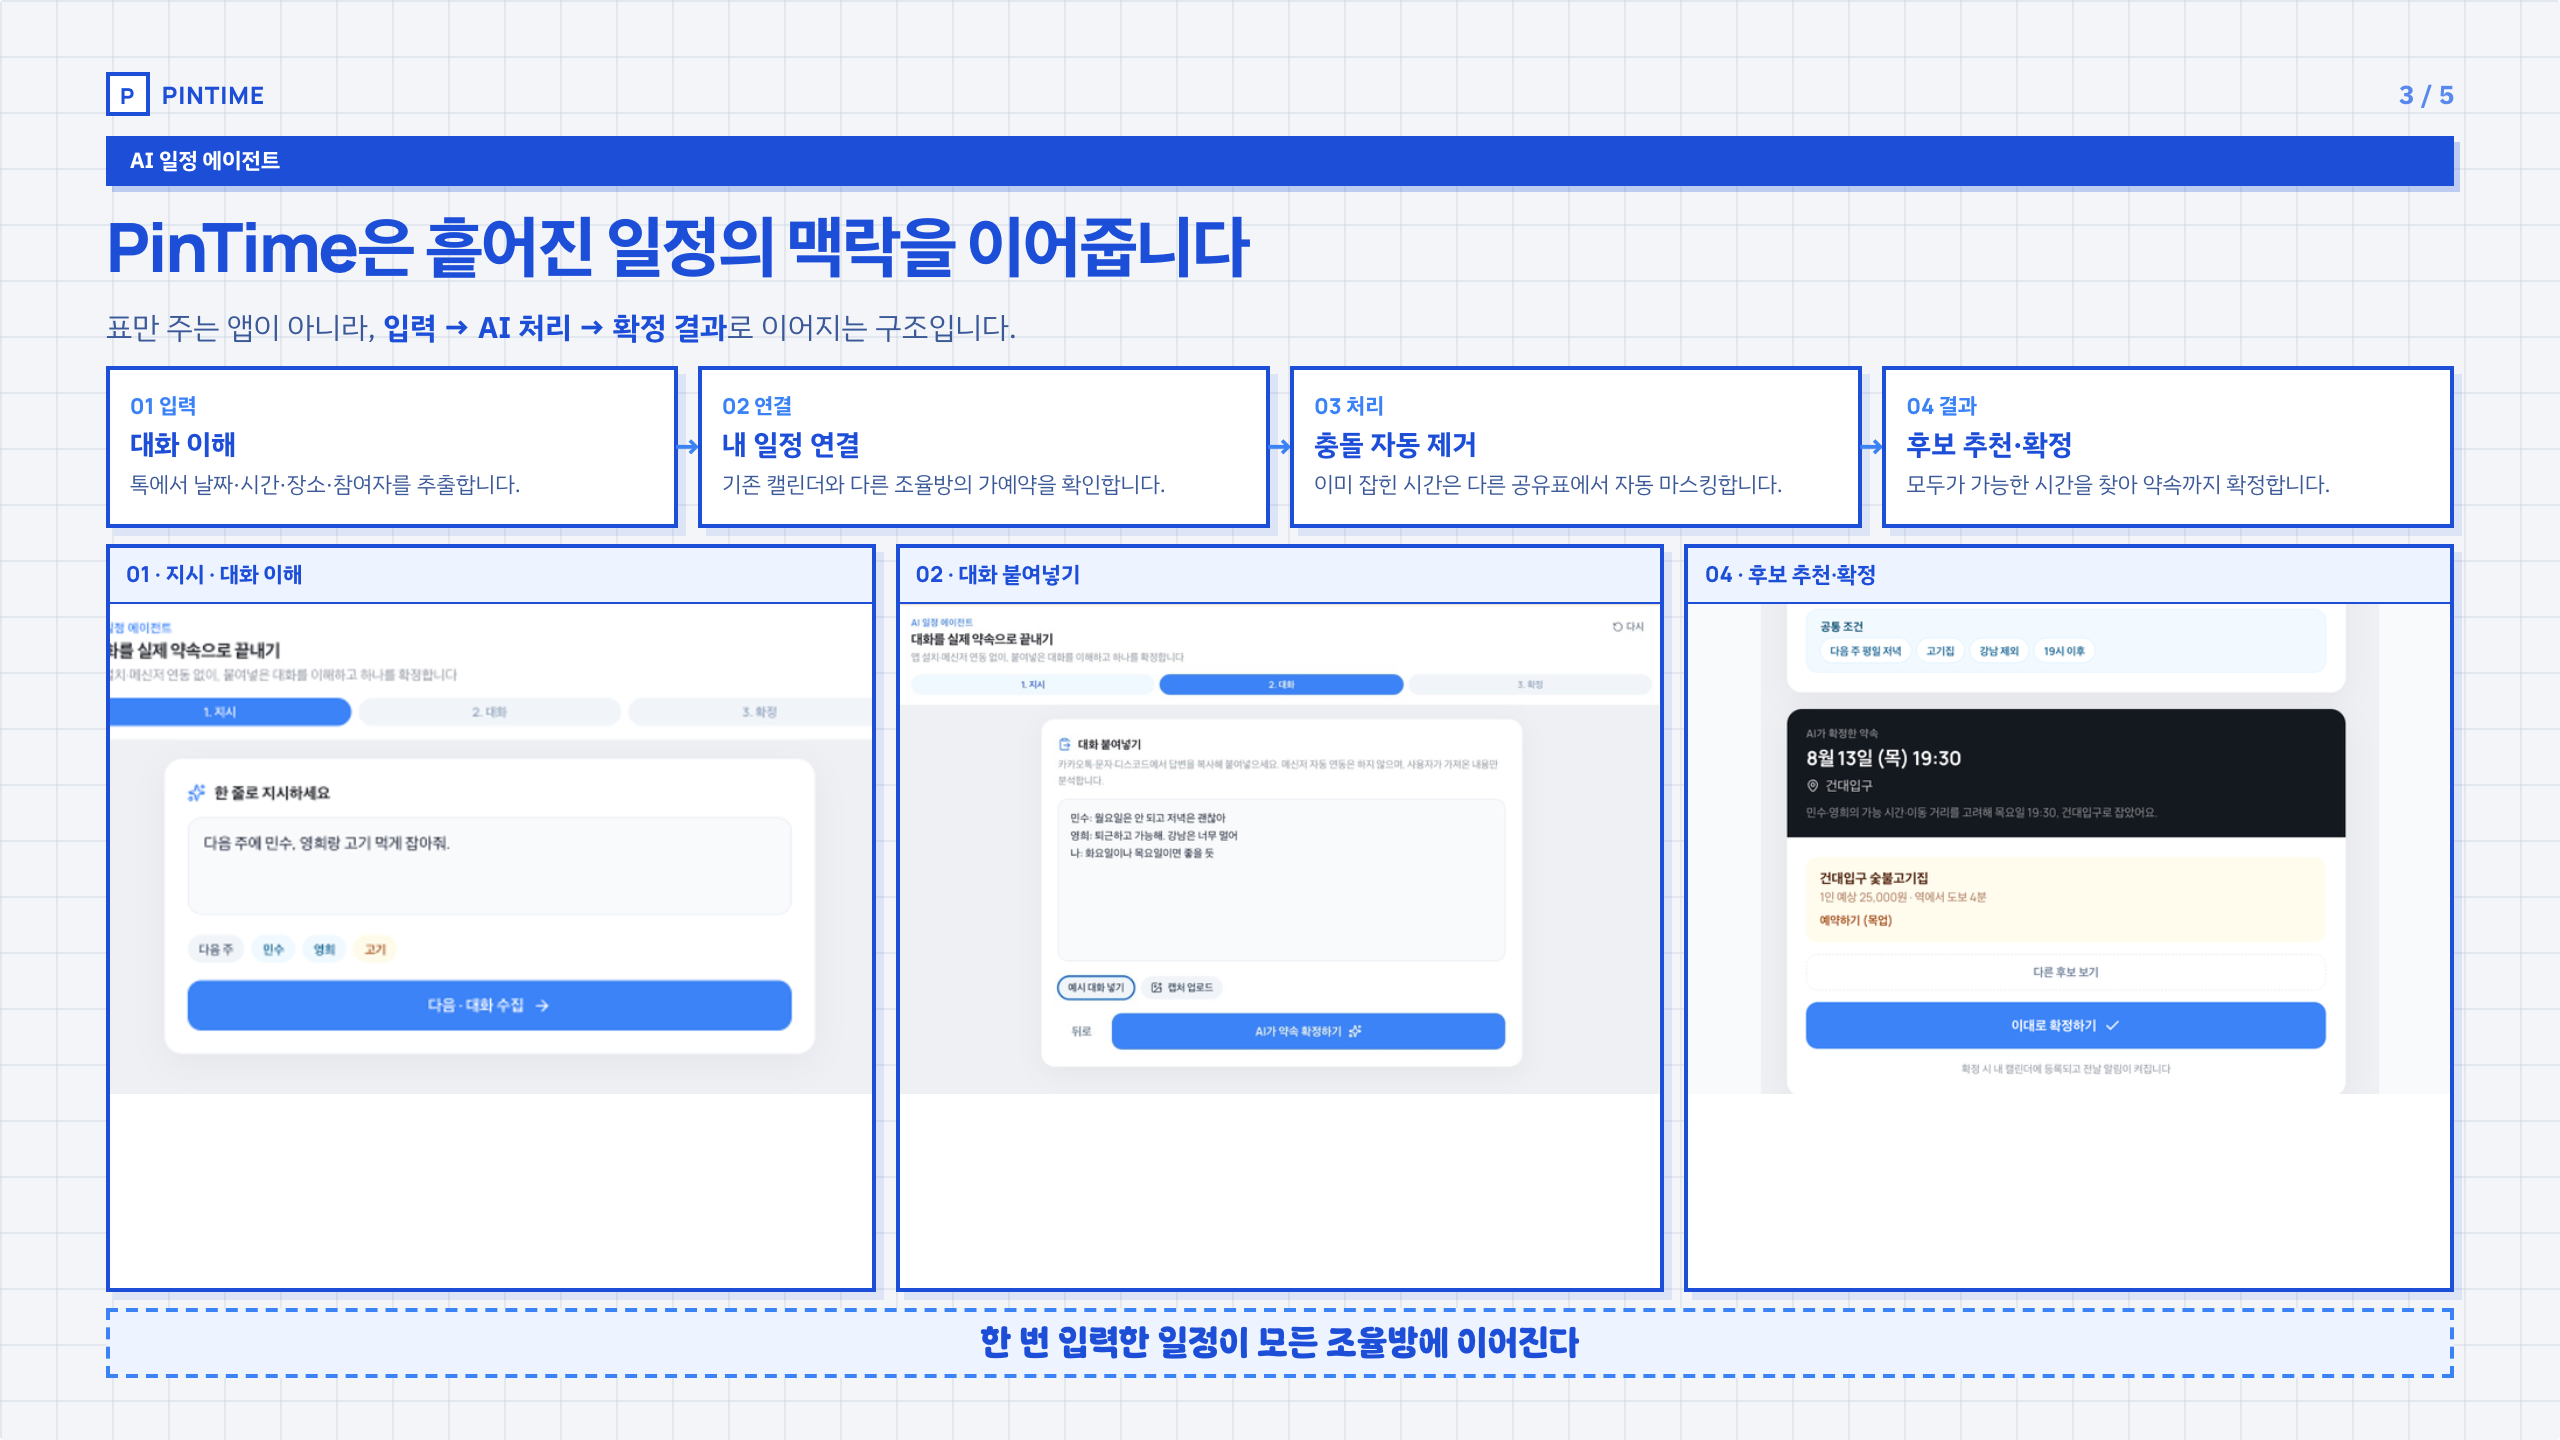
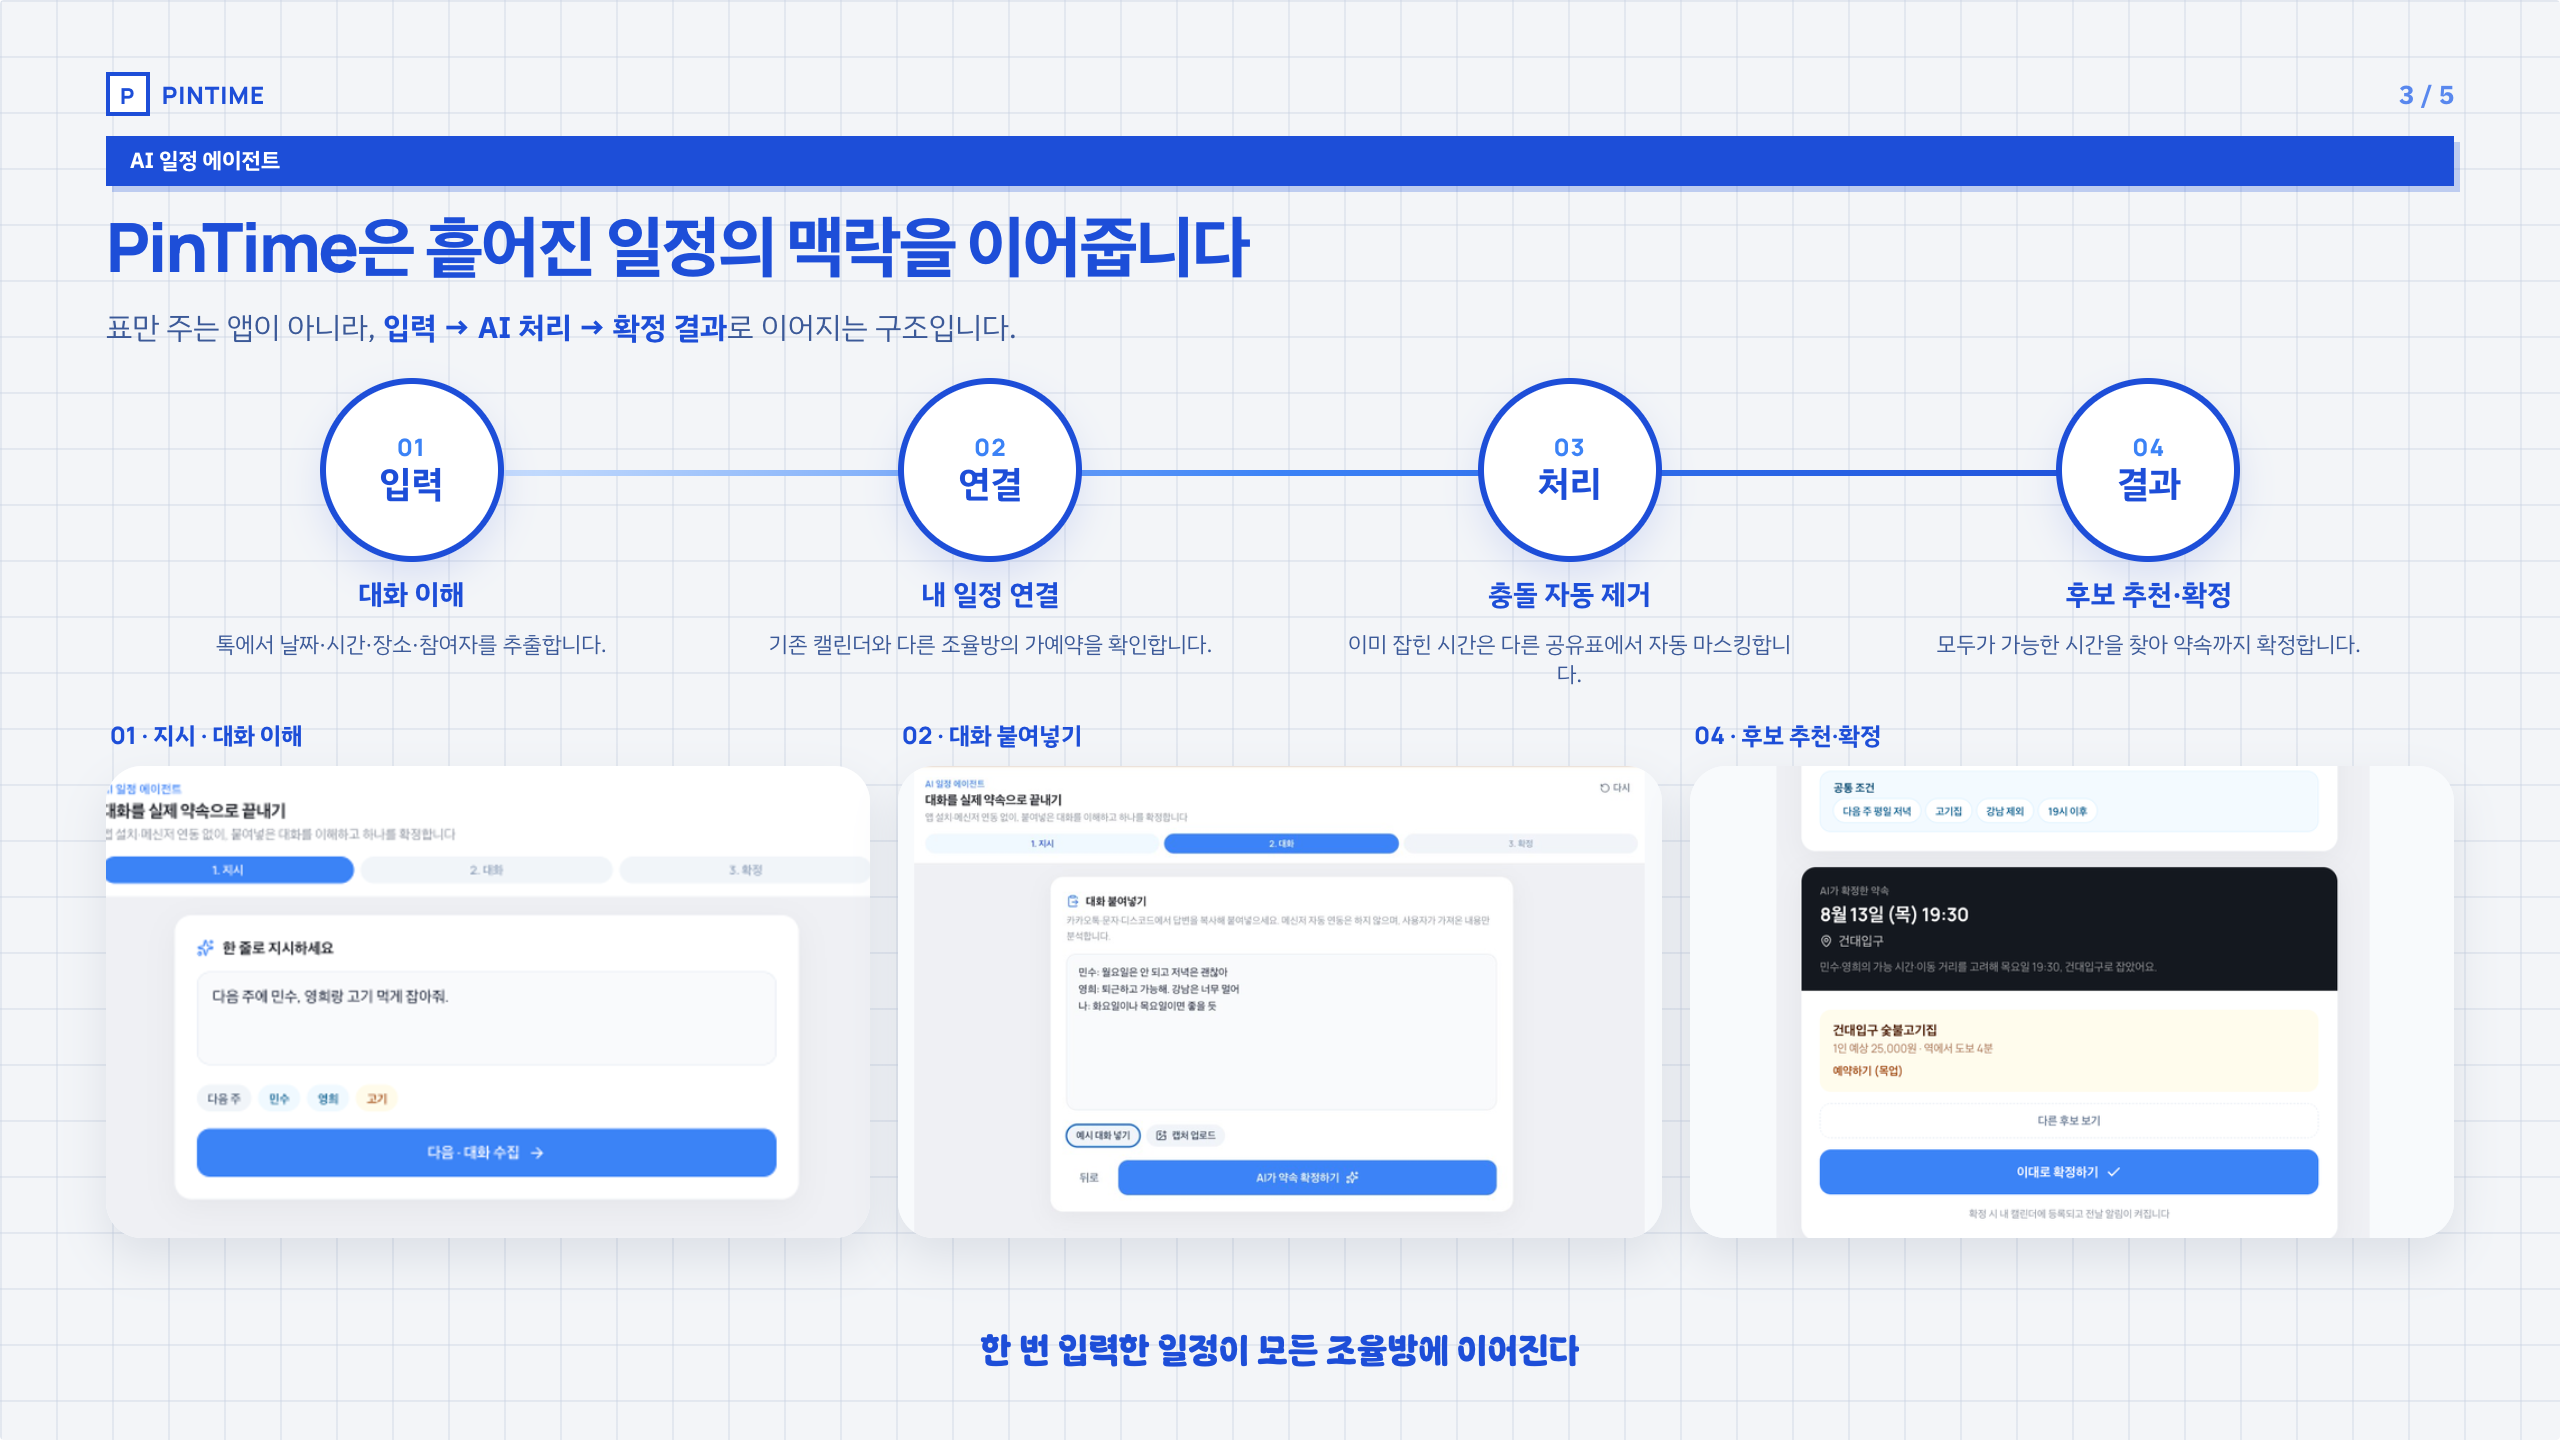
Restyle AI pipeline as a four-circle infographic.

diff --git a/public/pitch.html b/public/pitch.html
@@ -453,91 +453,131 @@
       .ai-pipeline {
         display: grid;
         grid-template-columns: repeat(4, 1fr);
-        gap: 10px;
-        margin-top: 8px;
+        gap: 0;
+        margin-top: 14px;
         flex-shrink: 0;
+        position: relative;
+        padding: 0 8px;
+      }
+      .ai-pipeline::before {
+        content: '';
+        position: absolute;
+        left: 12%;
+        right: 12%;
+        top: 46px;
+        height: 3px;
+        background: linear-gradient(
+          90deg,
+          var(--blue-pale),
+          var(--blue-soft),
+          var(--blue)
+        );
+        border-radius: 999px;
+        z-index: 0;
       }
       .ai-step {
-        background: #fff;
-        border: 2px solid var(--blue);
-        padding: 10px 10px 12px;
-        box-shadow: 4px 4px 0 rgba(29, 78, 216, 0.1);
+        background: transparent;
+        border: none;
+        box-shadow: none;
+        padding: 0 10px;
         display: flex;
         flex-direction: column;
-        gap: 4px;
+        align-items: center;
+        text-align: center;
+        gap: 8px;
         position: relative;
+        z-index: 1;
       }
       .ai-step::after {
-        content: '→';
-        position: absolute;
-        right: -14px;
-        top: 50%;
-        transform: translateY(-50%);
-        font-weight: 800;
-        color: var(--blue-soft);
-        font-size: 16px;
+        content: none;
       }
-      .ai-step:last-child::after { content: none; }
-      .ai-step .n {
+      .ai-step .orb {
+        width: 92px;
+        height: 92px;
+        border-radius: 50%;
+        background: #fff;
+        border: 3px solid var(--blue);
+        box-shadow: 0 8px 18px rgba(29, 78, 216, 0.12);
+        display: flex;
+        flex-direction: column;
+        align-items: center;
+        justify-content: center;
+        gap: 2px;
+      }
+      .ai-step .orb .n {
         font-family: Manrope, sans-serif;
         font-weight: 800;
-        font-size: 11px;
+        font-size: 12px;
+        letter-spacing: 0.04em;
         color: var(--blue-soft);
+        line-height: 1;
+      }
+      .ai-step .orb .stage {
+        font-family: Manrope, 'IBM Plex Sans KR', sans-serif;
+        font-weight: 800;
+        font-size: 18px;
+        color: var(--blue);
+        line-height: 1.1;
       }
       .ai-step h3 {
         margin: 0;
         font-size: 14px;
         line-height: 1.25;
+        color: var(--blue);
       }
       .ai-step p {
         margin: 0;
         font-size: 11px;
-        line-height: 1.35;
+        line-height: 1.4;
         color: var(--muted-solid);
+        max-width: 2.4in;
       }
       .ai-shots {
         display: grid;
         grid-template-columns: repeat(3, 1fr);
-        gap: 10px;
-        margin-top: 8px;
+        gap: 14px;
+        margin-top: 14px;
         flex: 1;
         min-height: 0;
       }
       .ai-shot {
-        background: #fff;
-        border: 2px solid var(--blue);
-        box-shadow: 4px 4px 0 rgba(29, 78, 216, 0.1);
-        overflow: hidden;
+        background: transparent;
+        border: none;
+        box-shadow: none;
+        overflow: visible;
         display: flex;
         flex-direction: column;
         min-height: 0;
+        gap: 6px;
       }
       .ai-shot .lab {
-        padding: 5px 8px;
-        background: #eef4ff;
-        border-bottom: 1.5px solid var(--blue);
-        font-size: 11px;
+        padding: 0 2px;
+        background: transparent;
+        border: none;
+        font-size: 12px;
         font-weight: 800;
         color: var(--blue);
         font-family: Manrope, 'IBM Plex Sans KR', sans-serif;
       }
       .ai-shot img {
         width: 100%;
-        height: 2.55in;
+        height: 2.45in;
         object-fit: cover;
         object-position: top center;
         display: block;
         background: #f8fafc;
+        border-radius: 18px;
+        box-shadow: 0 10px 22px rgba(15, 35, 80, 0.1);
       }
       .ai-centerline {
-        margin: 8px 0 0;
+        margin: 10px 0 0;
         text-align: center;
         font-family: 'Gumi Romance', 'IBM Plex Sans KR', sans-serif;
         font-size: 16px;
         color: var(--blue);
-        padding: 6px 12px;
-        background: #eef4ff;
-        border: 2px dashed var(--blue-soft);
+        padding: 4px 12px;
+        background: transparent;
+        border: none;
         flex-shrink: 0;
       }
 
@@ -2189,22 +2229,34 @@
 
           <div class="ai-pipeline">
             <div class="ai-step">
-              <span class="n">01 입력</span>
+              <div class="orb">
+                <span class="n">01</span>
+                <span class="stage">입력</span>
+              </div>
               <h3>대화 이해</h3>
               <p>톡에서 날짜·시간·장소·참여자를 추출합니다.</p>
             </div>
             <div class="ai-step">
-              <span class="n">02 연결</span>
+              <div class="orb">
+                <span class="n">02</span>
+                <span class="stage">연결</span>
+              </div>
               <h3>내 일정 연결</h3>
               <p>기존 캘린더와 다른 조율방의 가예약을 확인합니다.</p>
             </div>
             <div class="ai-step">
-              <span class="n">03 처리</span>
+              <div class="orb">
+                <span class="n">03</span>
+                <span class="stage">처리</span>
+              </div>
               <h3>충돌 자동 제거</h3>
               <p>이미 잡힌 시간은 다른 공유표에서 자동 마스킹합니다.</p>
             </div>
             <div class="ai-step">
-              <span class="n">04 결과</span>
+              <div class="orb">
+                <span class="n">04</span>
+                <span class="stage">결과</span>
+              </div>
               <h3>후보 추천·확정</h3>
               <p>모두가 가능한 시간을 찾아 약속까지 확정합니다.</p>
             </div>
